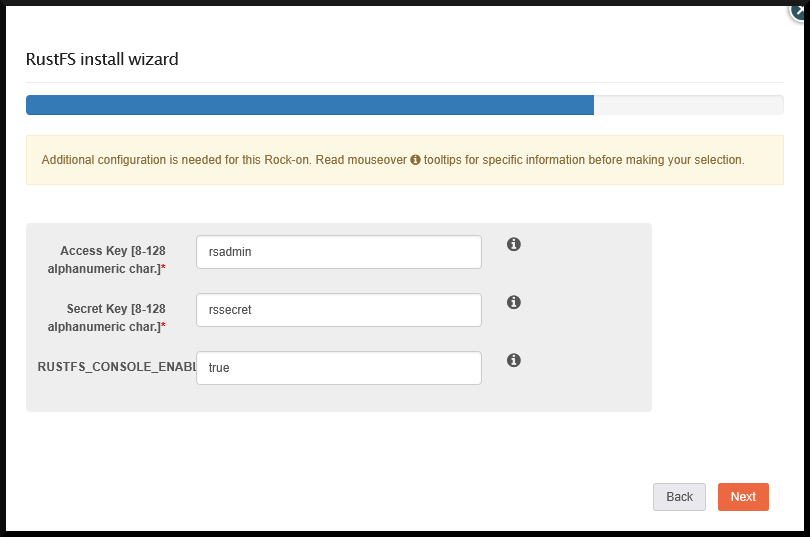
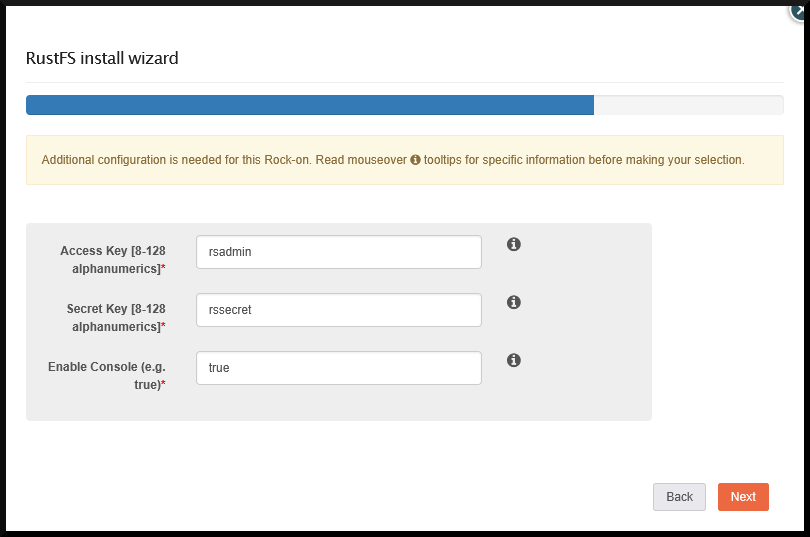
Changed and updated images to match Rock-on changes

diff --git a/interface/docker-based-rock-ons/rustfs.rst b/interface/docker-based-rock-ons/rustfs.rst
@@ -114,10 +114,10 @@ Rock-on already using those ports.
 
 Set the RustFS Environment Variables
 ------------------------------------
-RustFS needs values for three environment variables.  "Access Key" 
-(3 to 128 alphanumerics), 
-"Secret Key" (8 to 128 alphanumerics), 
-and "Enable Console".  
+RustFS needs values for three environment variables.  
+"Access Key" (3 to 128 alphanumerics), 
+"Secret Key" (8 to 128 alphanumerics), and 
+"Enable Console".  
 "Access Key" and "Secret Key" are the username and password you 
 will use on the Web management interface and in your S3-compatible 
 client software.
@@ -161,8 +161,8 @@ Congratulations!  Your installation is complete.
 
 RustFS Web Console Interface
 ----------------------------
-You can open a Web browser and navigate to 
-`http://rockstor-server-address:9001` to go to the RustFS Web management interface.  
+You can use the "RustFS UI" button to go to the 
+RustFS Web management interface.  
 There you can view and create storage objects.  
 Point your S3-compatible application at your new server and you are 
 up and running with RustFS block storage. 
